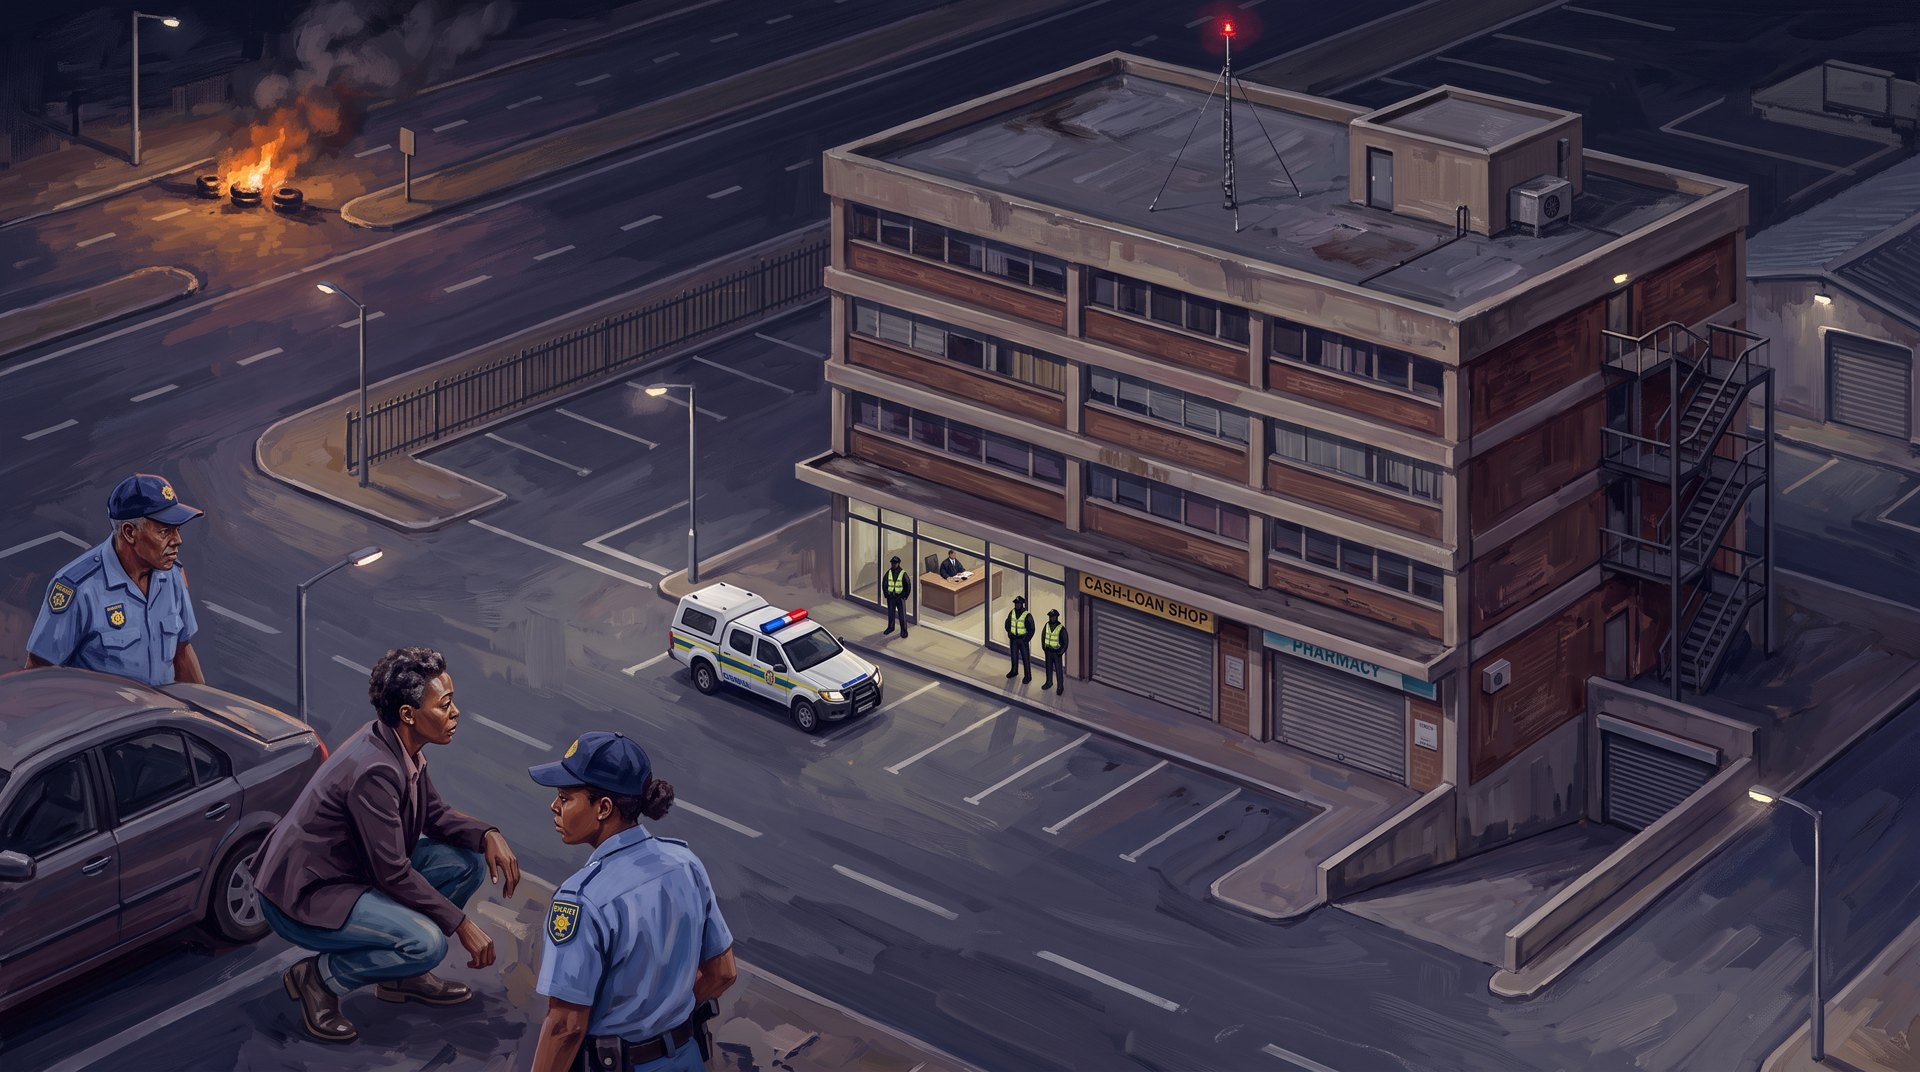
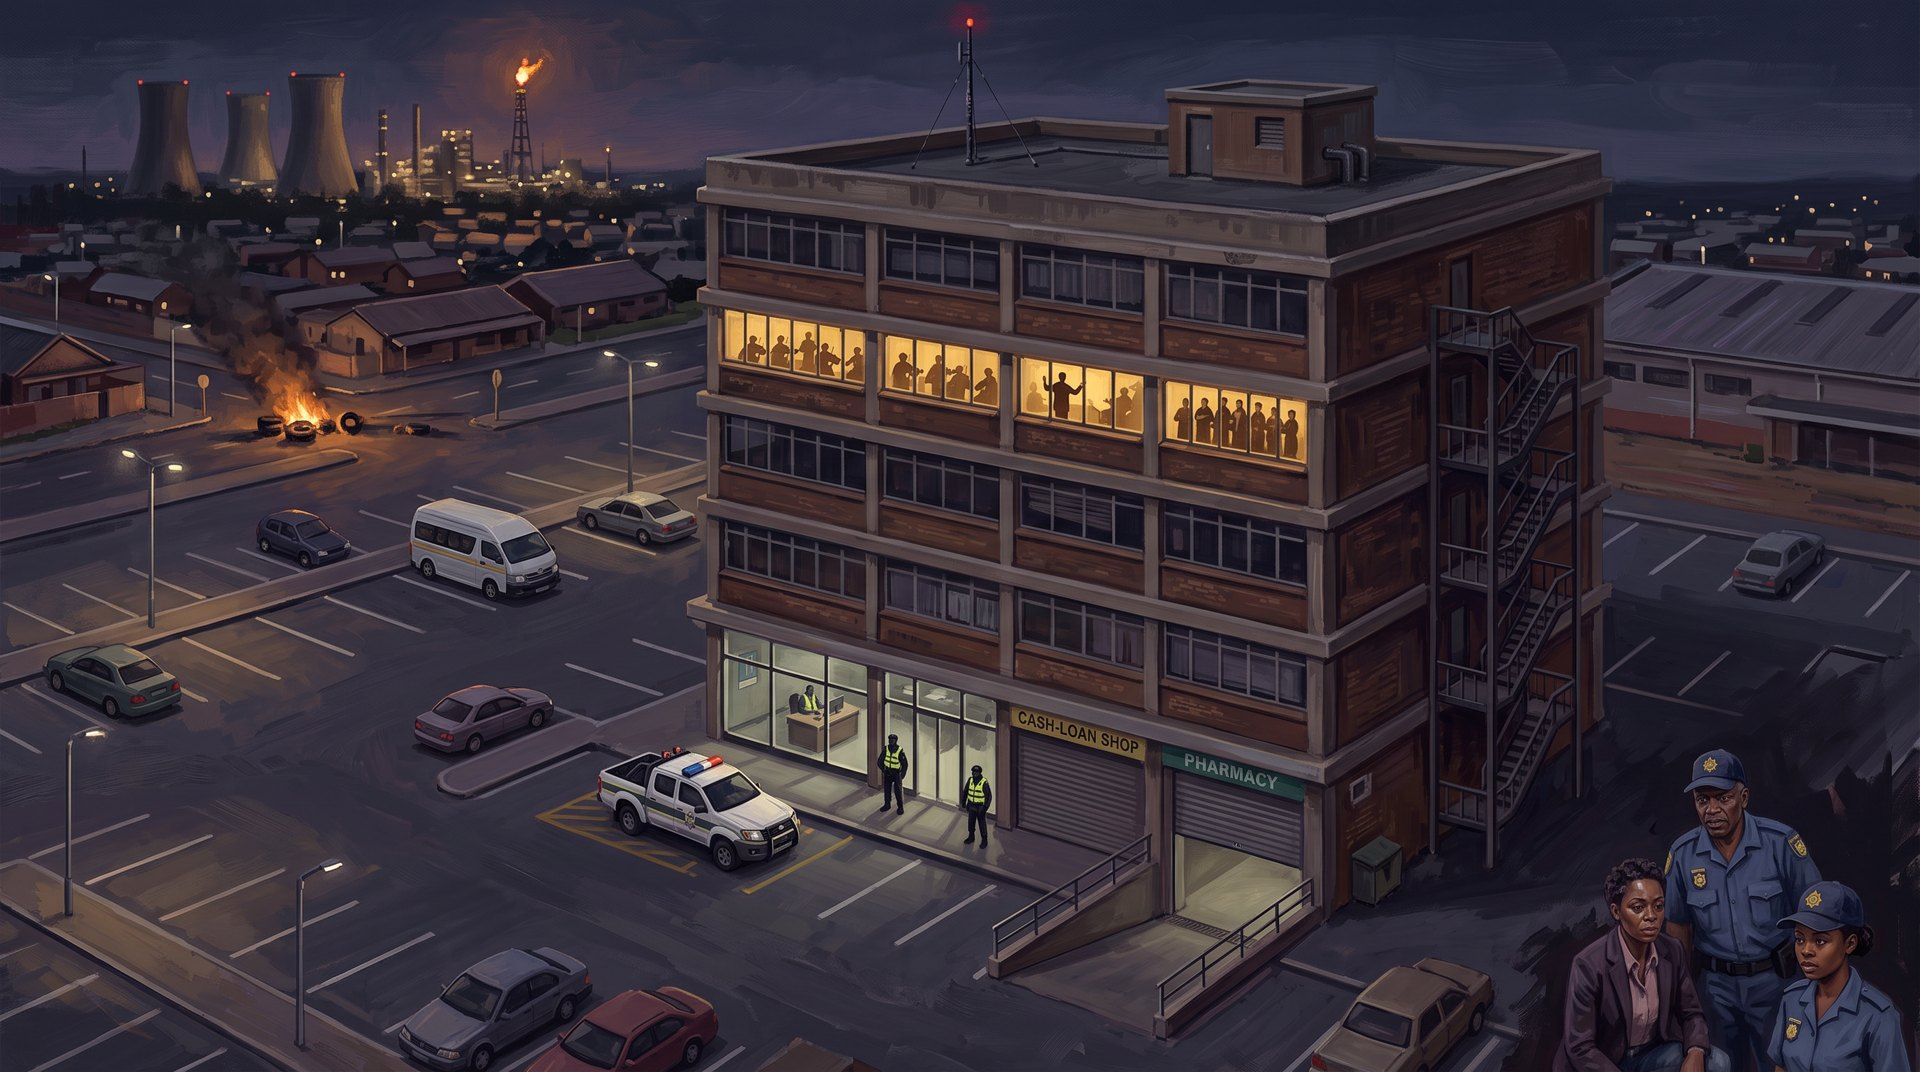
Redo the finale approach and evacuation frames
Claude-Session: https://claude.ai/code/session_01JsTFnX29FzYHhd18VpJC3F

diff --git a/NoirRPG/storyboard.html b/NoirRPG/storyboard.html
@@ -154,12 +154,12 @@ figcaption strong { font-family: var(--display); font-size: 1.15rem; font-weight
       <figcaption><strong>The control room</strong><span class="muted">Cameras, door locks, the lift. Whoever holds this room holds the building. Ruth matches her sheet. She should not have the pistol drawn here; this is the quiet route.</span></figcaption>
     </figure>
     <figure>
-      <img class="frame" src="concept/f1_building_night.jpg" alt="Isometric oil painting of a brick office block at night with a roof mast, a lobby with guards, a loan shop and pharmacy, a basement ramp, a fire stair and an armed-response vehicle outside; a tyre fire burns down the road; a woman and two police officers crouch behind a car in the foreground">
-      <figcaption><strong>The approach</strong><span class="muted">Every way in is visible from here: lobby, loan shop, basement ramp, fire stair, roof. The blockade burns down the road.</span><span class="fix">Painted with four floors, not five, and the rehearsal windows are dark</span></figcaption>
+      <img class="frame" src="concept/f1_building_night.jpg" alt="Isometric oil painting of a five-storey brick office block at night with a roof mast; the fourth floor windows glow with silhouettes of musicians; a lobby with guards, a loan shop and pharmacy, a basement ramp, a fire stair and an armed-response vehicle; a tyre fire down the road, cooling towers and a flare on the horizon; a woman and two police officers watch from the corner">
+      <figcaption><strong>The approach</strong><span class="muted">Redone. Five floors, with the fourth lit and the rehearsal visible from the street. Every way in can be read from here: lobby, loan shop, basement ramp, fire stair, roof. The blockade burns down the road and the plant is on the horizon.</span></figcaption>
     </figure>
     <figure>
-      <img class="frame" src="concept/f5_fire_stair_evacuation.jpg" alt="Oil painting of people filing down an external fire stair at night carrying instrument cases, a policewoman with a torch on a landing, an orchestra still playing behind lit windows, a small crowd under a streetlight">
-      <figcaption><strong>The quiet way out</strong><span class="muted">The idea is right: the hall empties down the fire stair while the players who are left keep the music going, and the dismissed men gather in the street.</span><span class="fix">The street and the people look European; redo</span></figcaption>
+      <img class="frame" src="concept/f5_fire_stair_evacuation.jpg" alt="Isometric oil painting of teenagers with instrument cases and adult choir members filing down a steel fire stair on a brick office block at night, a policewoman with a torch on a landing, a man in an orange mining jacket and hard hat at the foot, an orchestra still playing behind lit windows, a crowd of men standing in a parking lot, cooling towers and a flare on the horizon">
+      <figcaption><strong>The quiet way out</strong><span class="muted">Redone. The hall empties down the fire stair while the players who are left keep the music going. Nkuna is on the landing, Joseph is at the back with the day book, his nephew is at the foot in mine-rescue orange, and the dismissed men stand in the parking lot, watching.</span></figcaption>
     </figure>
   </div>
 </section>
